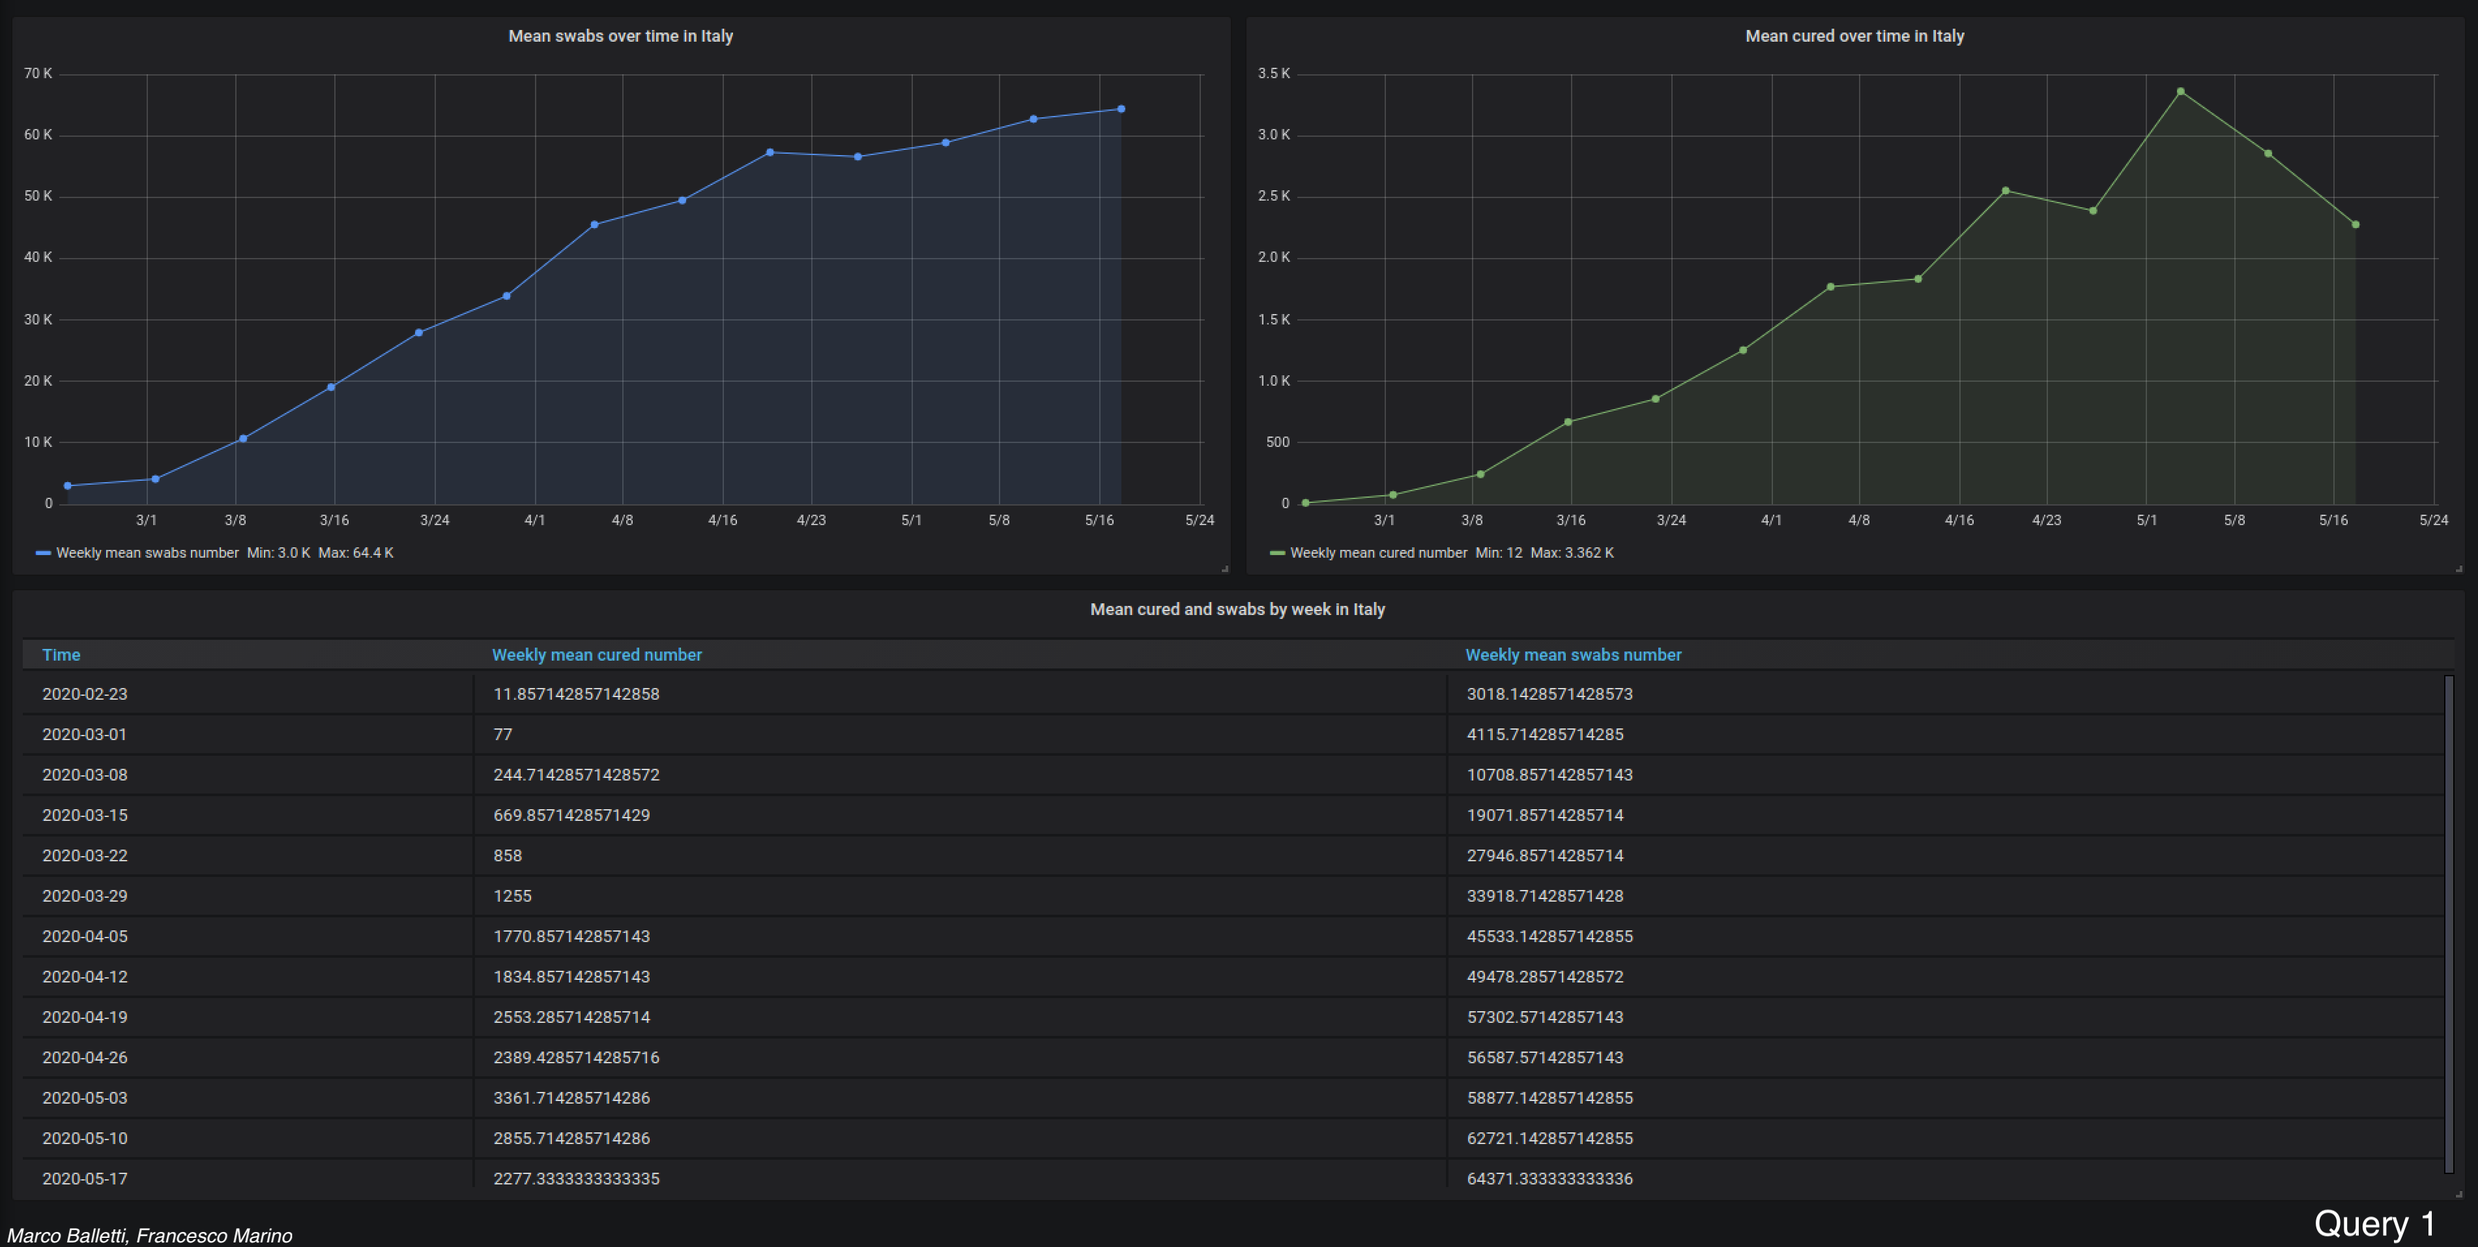
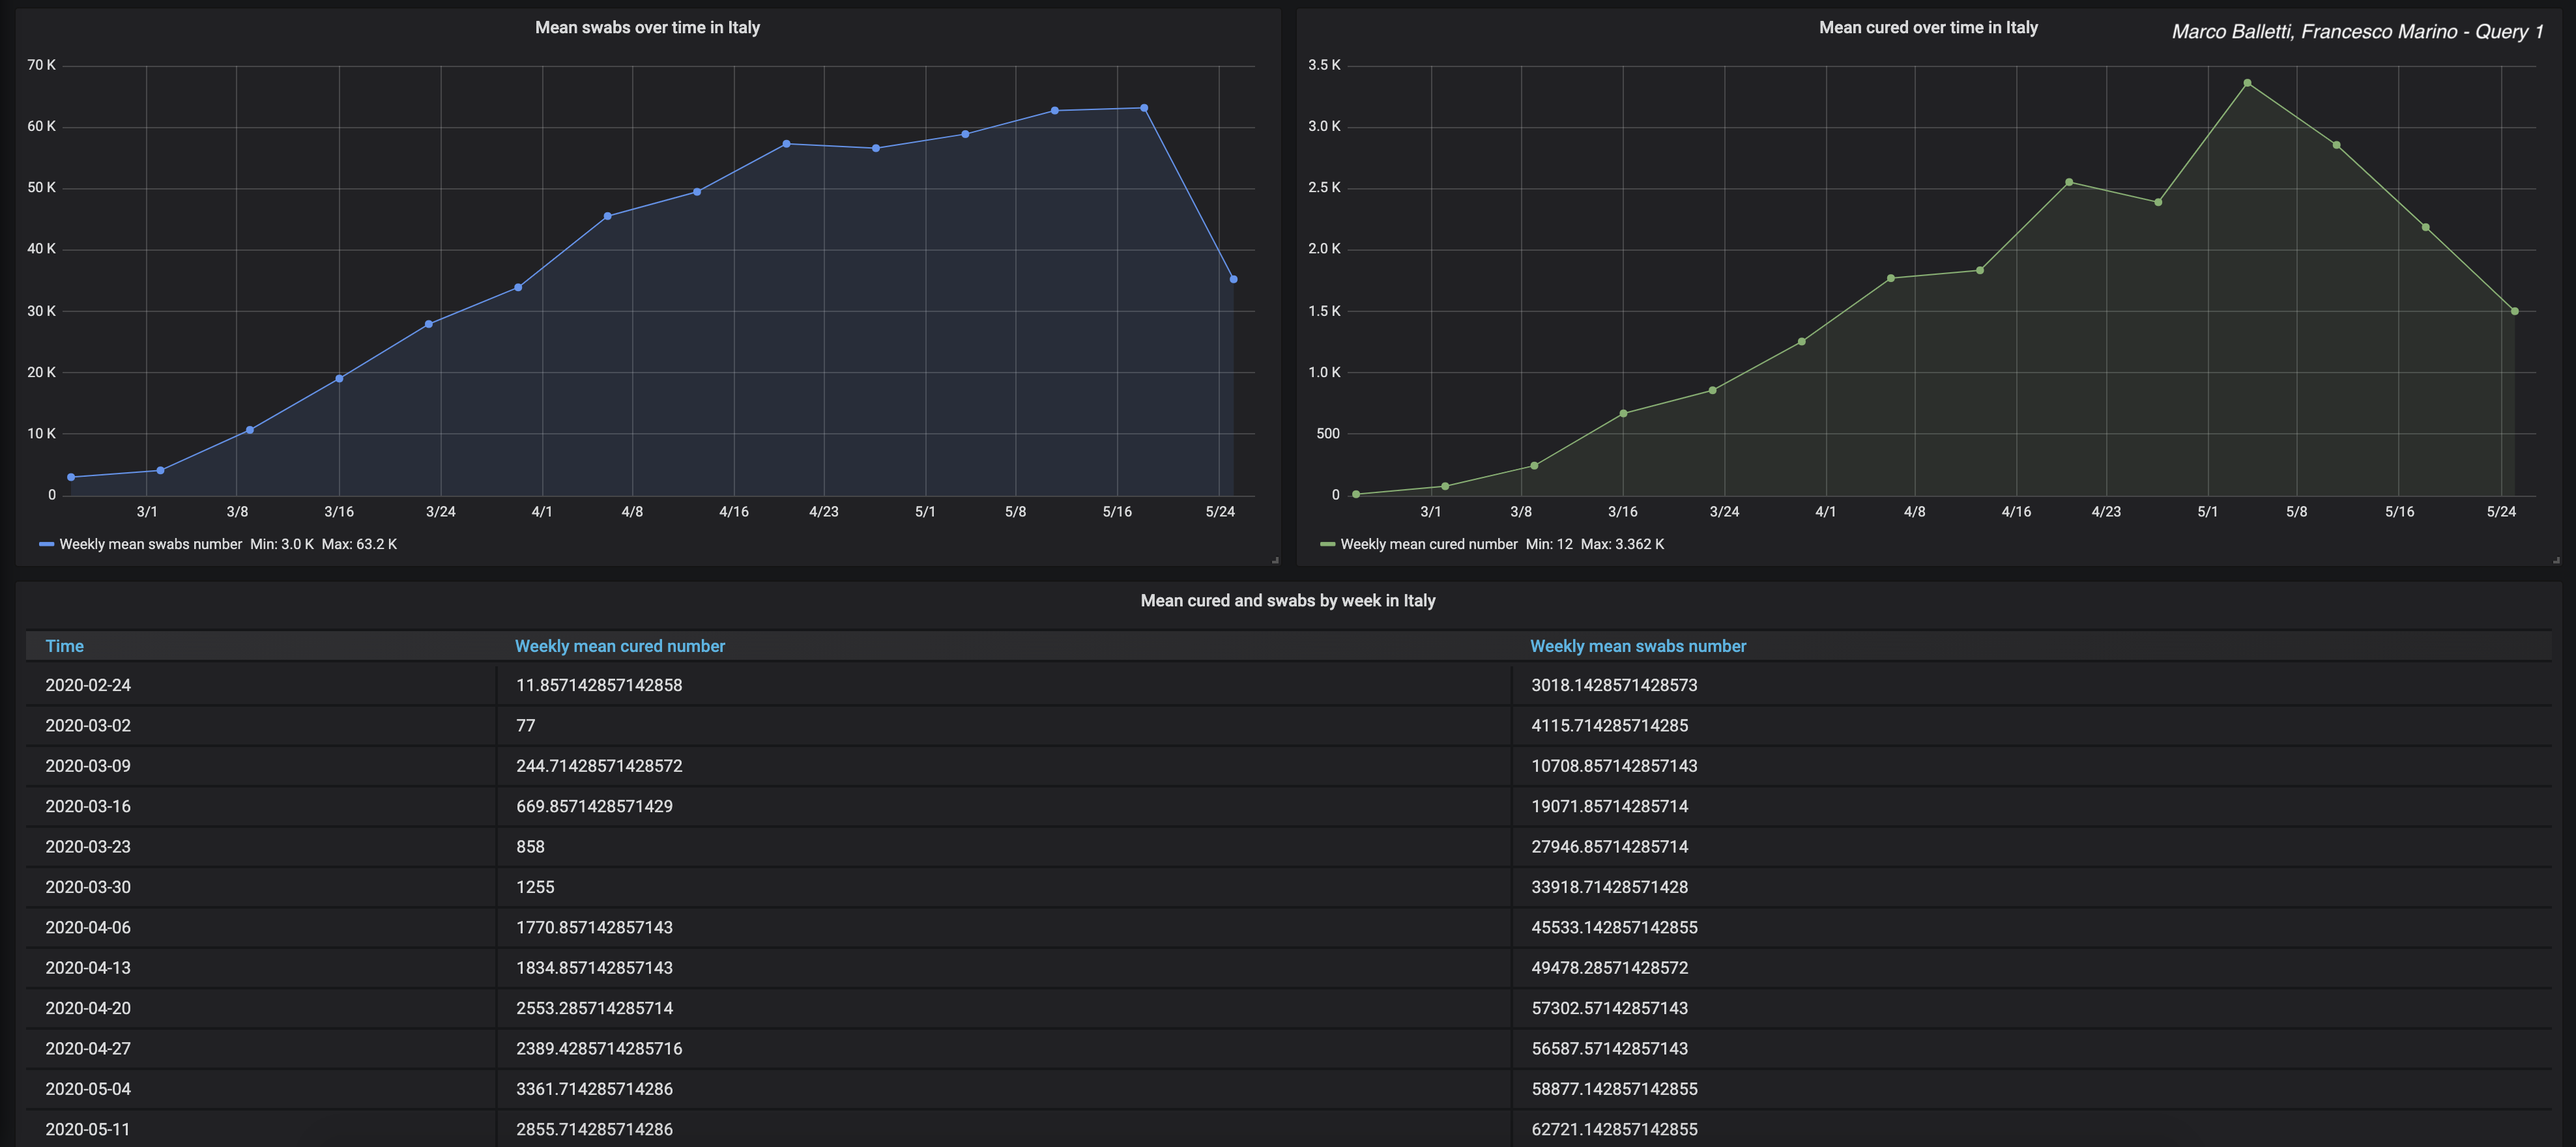
Results final update to 26th of May 2020

diff --git a/docker-env/readme.md b/docker-env/readme.md
@@ -54,6 +54,8 @@ Incompatible host OS: MacOS
 
 	For queries results graphical representation. The `grafana_storage` folder is automatically bounded to the container to implement local host machine persistence.
 	
+	In `grafana-dashboards/images` there are graphics result updated to 26th of May, 2020 (18:00 UTC+1).
+	
 * **InfluxDB** container:
 
 	For queries result export from HDFS to Grafana. The `influx_storage` directory is automatically bounded to the container to implement local host machine persistence of the time series database.

diff --git a/readme.md b/readme.md
@@ -11,6 +11,8 @@ Folder containing CSV files:
 3. `query3_mllib_output.csv` containing the output of the third query performed using the mllib k-means implementation,
 4. `query3_naive_output.csv` containing the output of the third query performed using a naive implementation of the Lloyd k-means algorithm.
 
+**Results are updated to 26th of May, 2020 (18:00 UTC+1)**
+
 ### Documentation
 Folder containing benchmark results, project report and project presentation slides.
 ### docker-env
